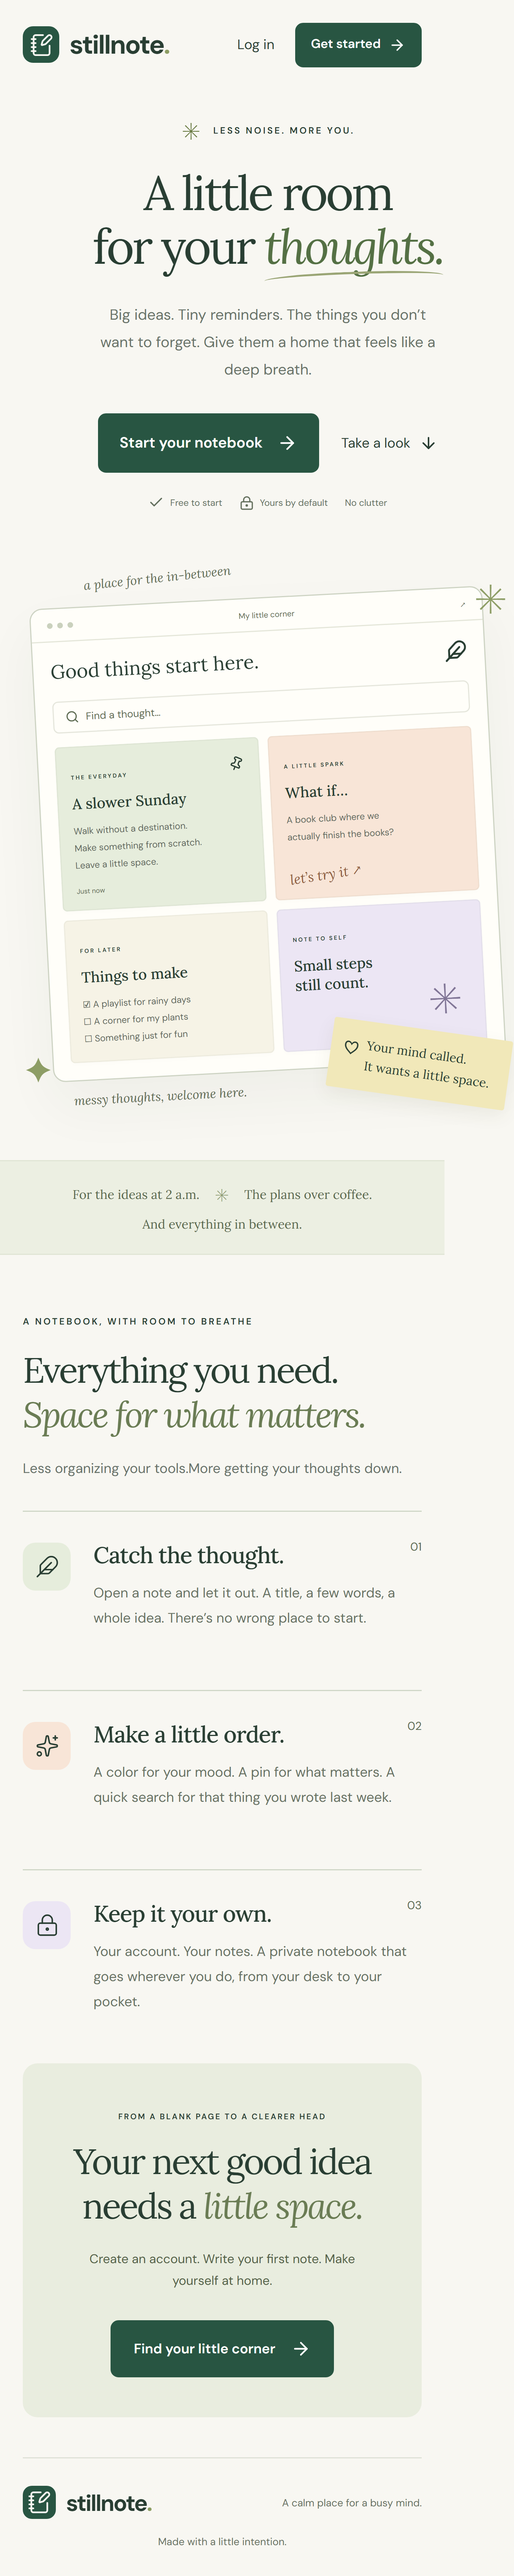
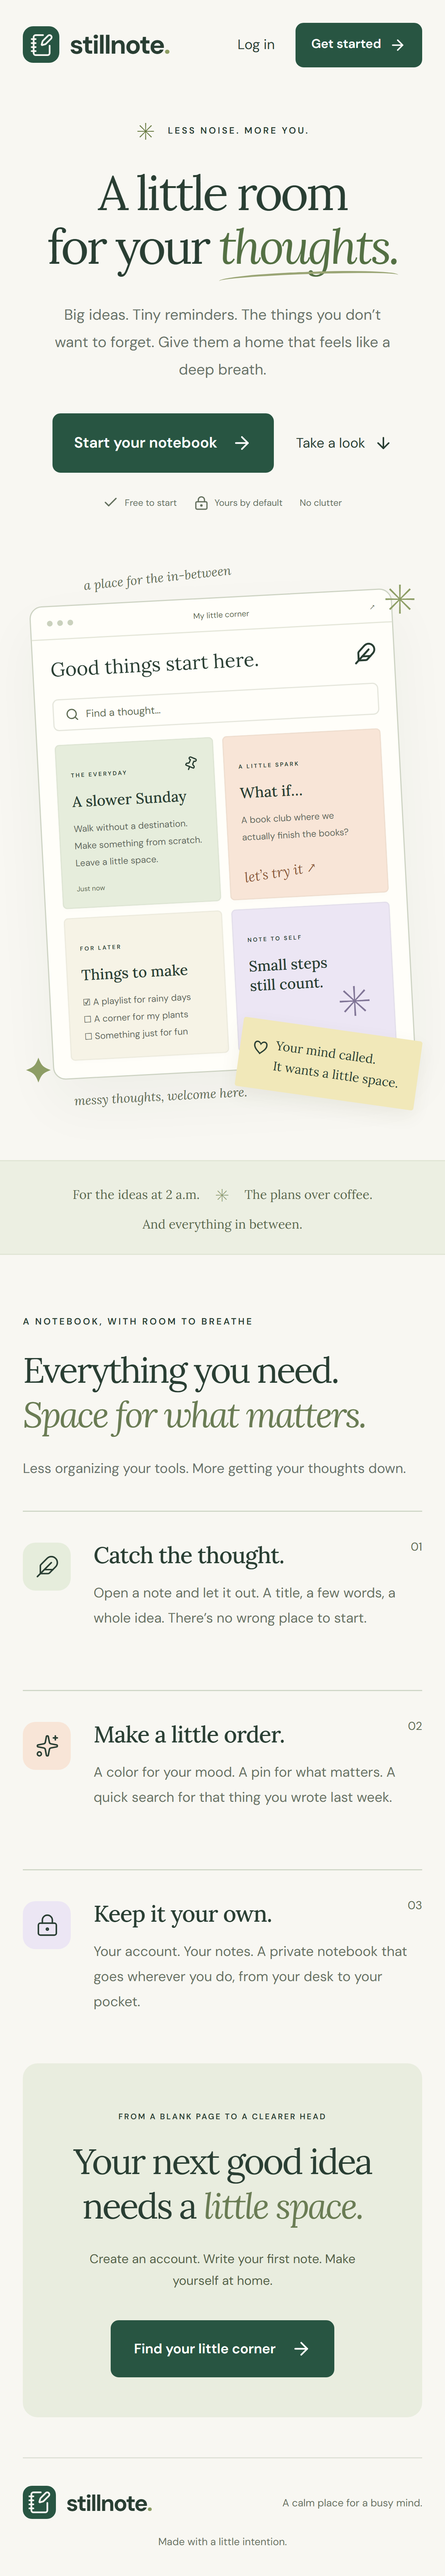
Fix mobile landing overflow and strengthen viewport regression check

diff --git a/tests/public.spec.ts b/tests/public.spec.ts
@@ -8,11 +8,10 @@ test("landing page is responsive, accessible, and routes to signup", async ({
   await expect(
     page.getByRole("heading", { name: "A little room for your thoughts." }),
   ).toBeVisible();
+  await page.evaluate(() => document.fonts.ready);
   expect(
-    await page.evaluate(
-      () => document.documentElement.scrollWidth <= window.innerWidth,
-    ),
-  ).toBe(true);
+    await page.evaluate(() => document.documentElement.scrollWidth),
+  ).toBeLessThanOrEqual(page.viewportSize()!.width);
   const scan = await new AxeBuilder({ page })
     .withTags(["wcag2a", "wcag2aa", "wcag21aa"])
     .analyze();

diff --git a/src/styles.css b/src/styles.css
@@ -228,7 +228,7 @@ em {
 }
 .hero {
   display: grid;
-  grid-template-columns: 1.02fr 1fr;
+  grid-template-columns: minmax(0, 1.02fr) minmax(0, 1fr);
   align-items: center;
   gap: 24px;
   padding-top: 62px;
@@ -312,6 +312,7 @@ em {
 }
 .hero-art {
   position: relative;
+  min-width: 0;
   min-height: 430px;
   padding: 30px 17px 25px 12px;
 }
@@ -1704,7 +1705,7 @@ dialog::backdrop {
   .hero {
     padding-top: 35px;
     padding-bottom: 60px;
-    grid-template-columns: 1fr;
+    grid-template-columns: minmax(0, 1fr);
     gap: 50px;
   }
   .hero-copy {

diff --git a/src/pages/Landing.tsx b/src/pages/Landing.tsx
@@ -172,7 +172,7 @@ export function Landing() {
               <em>Space for what matters.</em>
             </h2>
             <p>
-              Less organizing your tools.
+              Less organizing your tools.{" "}
               <br />
               More getting your thoughts down.
             </p>

diff --git a/docs/submission.md b/docs/submission.md
@@ -23,6 +23,7 @@ The PR is open for the society's review. It has not been merged.
 - Production build and TypeScript checks passed.
 - 10 unit tests passed.
 - 6 desktop/mobile public browser tests passed, including automated WCAG A/AA checks.
+- On 21 October 2026, corrected the mobile landing illustration's grid sizing and verified that the page stays within the actual device viewport after fonts load. All 6 public browser tests passed again; the landing screenshots were refreshed.
 - Desktop and mobile live registration → create → edit → search → reload → delete → logout → login flows passed.
 - 18 public HTTP API authorization/constraint checks passed using two independent users.
 - Transactional SQL RLS checks passed, with fixtures rolled back.
